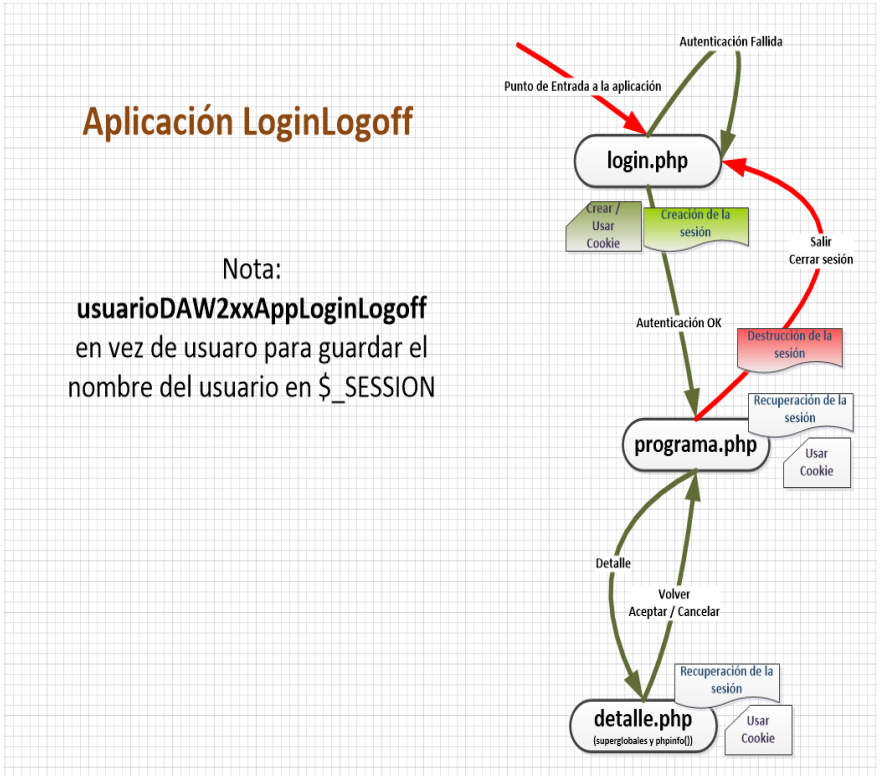
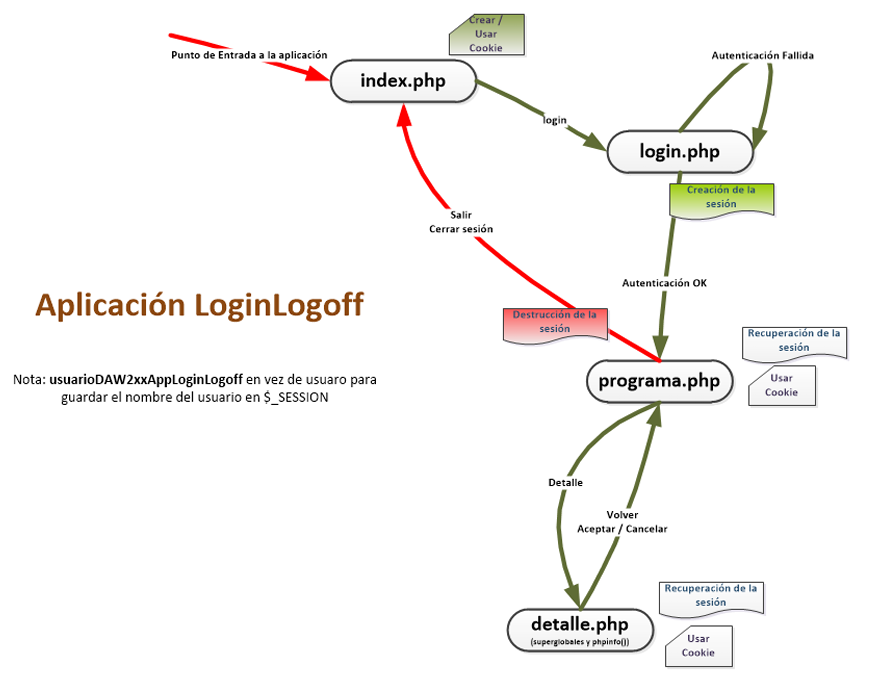
insercion de cookies y cambio de imagen del esquema

Changed region(s): [[0.0932, 0.0, 0.9942, 0.9868], [0.0, 0.3084, 0.4971, 0.6167]]

diff --git a/webroot/css/style.css b/webroot/css/style.css
@@ -62,6 +62,10 @@ header{
 h1{
     font-size: 11rem;
 }
+.formIndex button{
+    border: none;
+    background: none;
+}
 .programa{
     position: absolute;
     top: 0;

diff --git a/indexLoginLogoffTema5ES.php b/indexLoginLogoffTema5ES.php
@@ -1,17 +1,25 @@
 <?php
-//if(!isset($_COOKIE['idioma'])){
-//    setcookie('lang', $lang, time() +3600);
-//    
-//    exit();
-//}
-//if( $_REQUEST['es'] ) {
-//    $lang = 'es';
-//    setcookie( 'lang', $lang, time() +3600 );
-//} elseif( $_REQUEST['en']) {
-//    $lang = 'en';
-//    setcookie( 'lang', $lang, time() +3600 );
-//    header("Location: indexLoginLogoffTema5EN.php");
-//}
+// Se comprueba si esta declarada la cookie del idioma
+if (!isset($_COOKIE['idioma'])) { 
+    // Si no está declarada, se pone por defecto el valor de ES (español)
+    setcookie('idioma', 'ES', time() + 2592000); 
+}
+
+// Se comprueba si se ha pulsado algun boton de idioma
+if(isset($_REQUEST['idioma'])) {
+    // Si se ha pulsado una bandera, se declara una cookie con el valor del idioma seleccionado
+    setcookie( 'idioma', $_REQUEST['idioma'], time() + 2592000);
+    header('Location: indexLoginLogoffTema5ES.php');
+    exit();
+    // Si comprueba el idioma seleccionado
+//    if($_REQUEST['idioma']=='EN'){
+//        // Si el idioma seleccionado es ingles, se redirige la pagina al index en ingles
+//        header('Location: indexLoginLogoffTema5EN.php');
+//    }else{
+//        // Si el idioma seleccionado es español, se redirige la pagina al index en español
+//        header('Location: indexLoginLogoffTema5ES.php');
+//    }
+} 
 ?>
 <!DOCTYPE html>
 <html lang="en">
@@ -34,8 +42,8 @@
                 <ul class="listaIndex">
                     <li>
                         <form name="index" action="<?php echo $_SERVER['PHP_SELF']; ?>" id="formIndex" method="post">
-                            <input type="image" name="es" form="formIndex" class="fotoIdioma" src="webroot/image/español.png" alt="Idioma Español">
-                            <input type="image" name="en" form="formIndex" class="fotoIdioma" src="webroot/image/ingles.png" alt="Idioma Ingles">
+                            <input type="image" value="ES" name="idioma" form="formIndex" class="fotoIdioma" src="webroot/image/español.png" alt="Español">
+                            <input type="image" value="EN" name="idioma" form="formIndex" class="fotoIdioma" src="webroot/image/ingles.png" alt="Ingles">
                         </form>
                     </li>
                     <li></li>

diff --git a/codigoPHP/Programa.php b/codigoPHP/Programa.php
@@ -20,7 +20,7 @@ if (isset($_REQUEST['cerrarSesion'])) {
     // Se destruye su sesión
     session_destroy(); 
     // Se redirige al usuario al Login
-    header('Location: Login.php'); 
+    header('Location: ../indexLoginLogoffTema5ES.php'); 
     // Termina el programa
     exit();
 }
@@ -46,10 +46,23 @@ if (isset($_REQUEST['detalle'])) {
 
 <body>
     <header class="programa">
-        <h1>Programa</h1>
+        <?php
+        // Se comprueba el idioma
+        if($_COOKIE['idioma']=='ES'){
+            // Si el idioma es español, se muestra el titulo en castellano
+            echo('<h1>Programa</h1>');
+        }elseif ($_COOKIE['idioma']=='EN') {
+            // Si el idioma es ingles, se muestra el titulo en ingles
+            echo('<h1>Program</h1>');
+        }
+        ?>
+        
     </header>
     <main  class="main2">
         <?php
+        // Se comprueba el idioma
+        if($_COOKIE['idioma']=='ES'){
+            // Si el idioma es español, se muestra el mensaje de bienvenida en castellano
             echo('</div>');
             echo('<div class="mensajeSesion">');
             echo('Bienvenid@, <b>'.$_SESSION['DescripcionUsuario'].'</b>! <br>');
@@ -58,7 +71,17 @@ if (isset($_REQUEST['detalle'])) {
                 echo('Tu ultima conexion fue el <b>'.$_SESSION['FechaHoraUltimaConexionAnterior'].'</b>.');                
             }
             echo('</div>');
-            
+        }elseif ($_COOKIE['idioma']=='EN') {
+            // Si el idioma es ingles, se muestra el mensaje de bienvenida en ingles
+            echo('</div>');
+            echo('<div class="mensajeSesion">');
+            echo('Wellcome, <b>'.$_SESSION['DescripcionUsuario'].'</b>! <br>');
+            echo('This is your <b>'.$_SESSION['NumeroConexiones'].'</b> conection.<br>');  
+            if($_SESSION['FechaHoraUltimaConexionAnterior']!=null){
+                echo('Your last conection was <b>'.$_SESSION['FechaHoraUltimaConexionAnterior'].'</b>.');                
+            }
+            echo('</div>');
+        }
         ?>
         <div class="ejercicio">
             <!-- Se crea un formulario tipo post para agregar la opcion de busqueda-->

diff --git a/codigoPHP/Login.php b/codigoPHP/Login.php
@@ -8,7 +8,7 @@
 // Se valida si el usuario hace click en el botón 'Cancelar' 
 if (isset($_REQUEST['cancelar'])) {
     // Se redirige al usuario al Login
-    header('Location: ../indexLoginLogoffTema5.php'); 
+    header('Location: ../indexLoginLogoffTema5ES.php'); 
     // Termina el programa
     exit();
 }
@@ -172,7 +172,7 @@ if ($entradaOK) {
             <div id="fotos">
                 <a href="https://github.com/Ebenclaw/204DWESLoginLogoffTema5" target="_blank"><img id="git" src="../webroot/image/GitHub.png" alt="GitHub"></a>
                 <a href="http://ieslossauces.centros.educa.jcyl.es/sitio/" target="_blank"><img id="sauces" src="../webroot/image/sauces.png" alt="Sauces"></a>
-                <a href="../indexLoginLogoffTema5.php"><img id="home" src="../webroot/image/home.png" alt="Inicio"></a>
+                <a href="../indexLoginLogoffTema5ES.php"><img id="home" src="../webroot/image/home.png" alt="Inicio"></a>
         </footer>
     </body>
 
